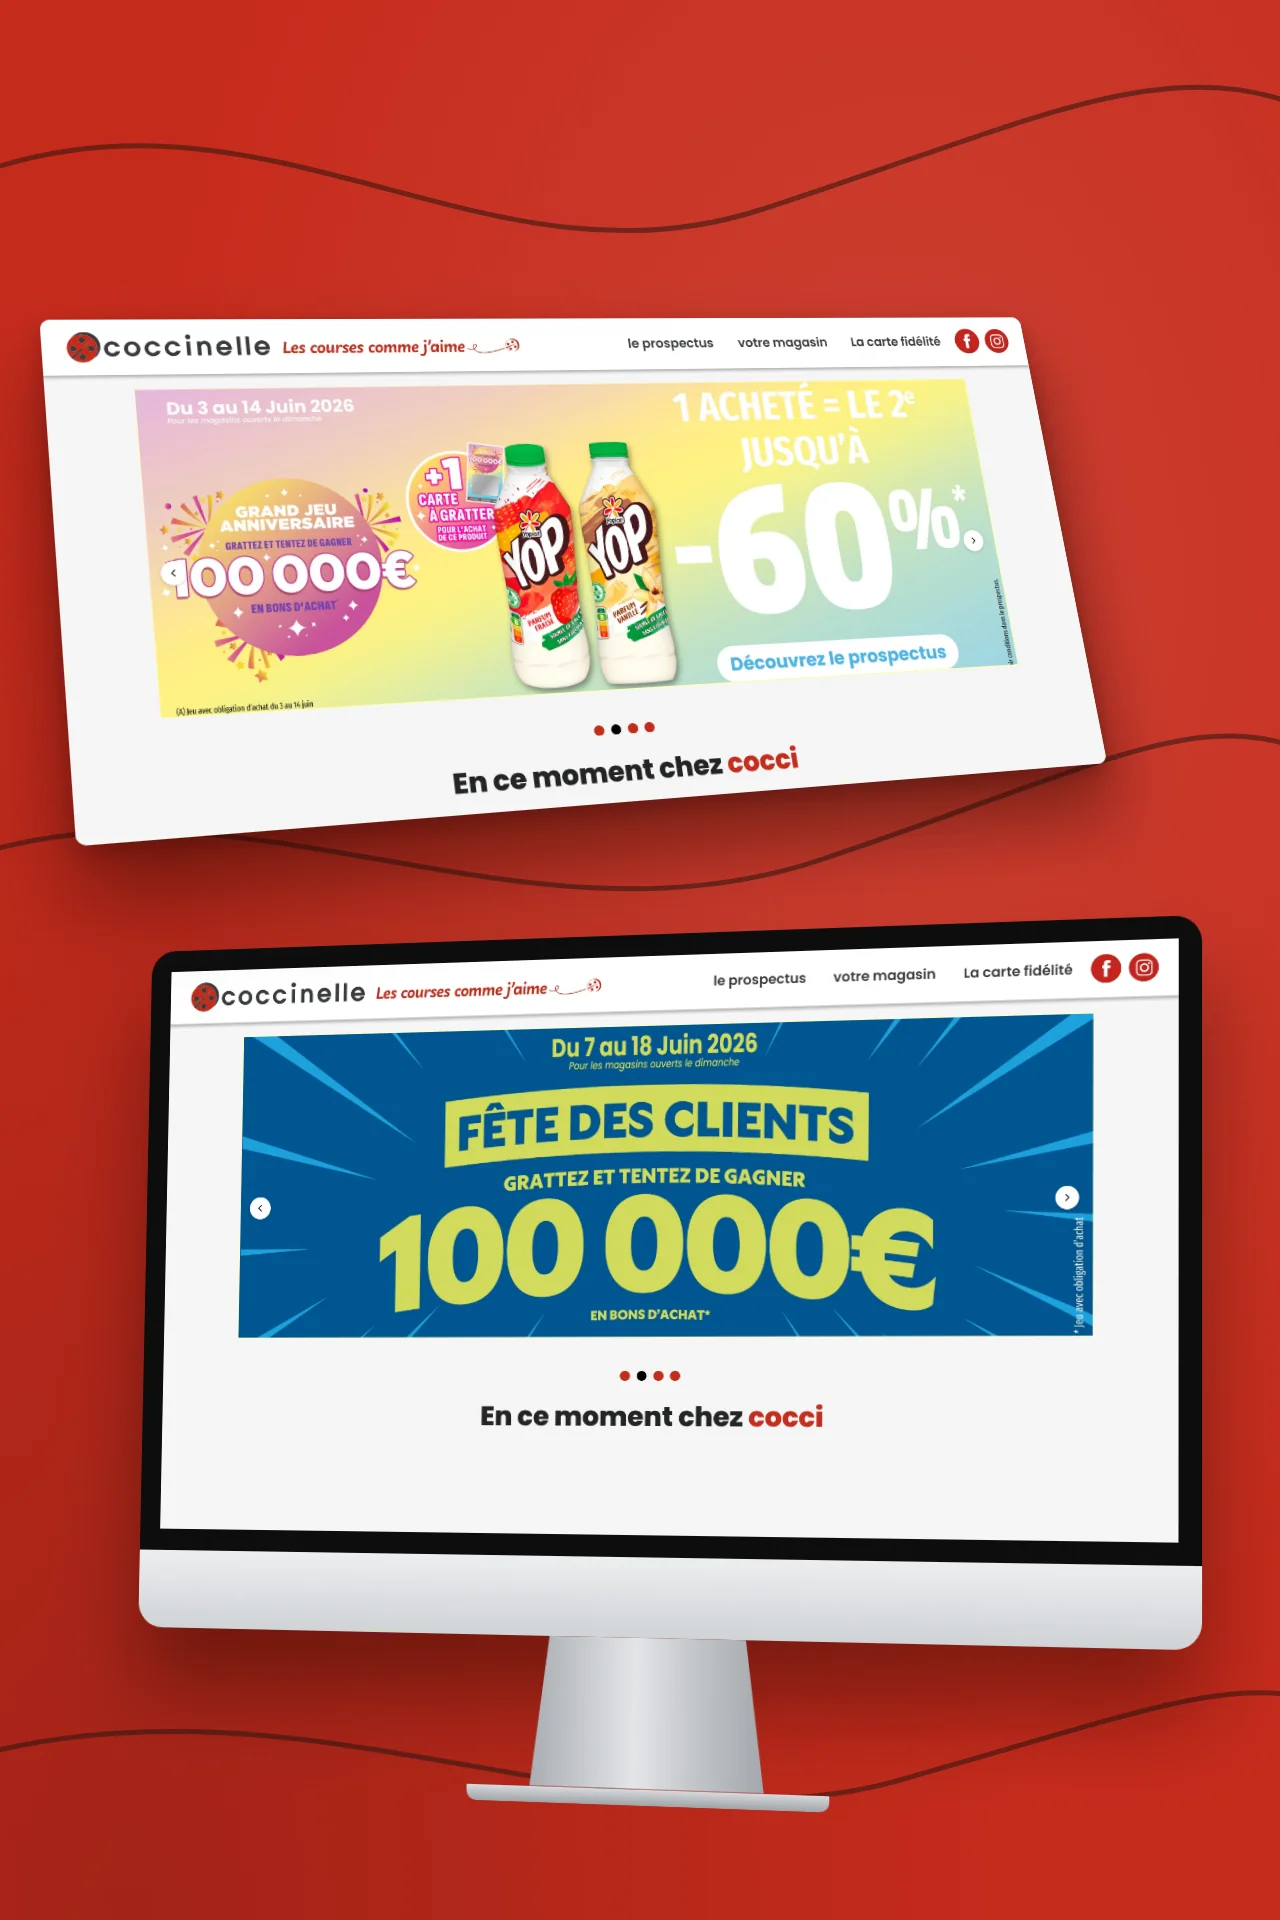
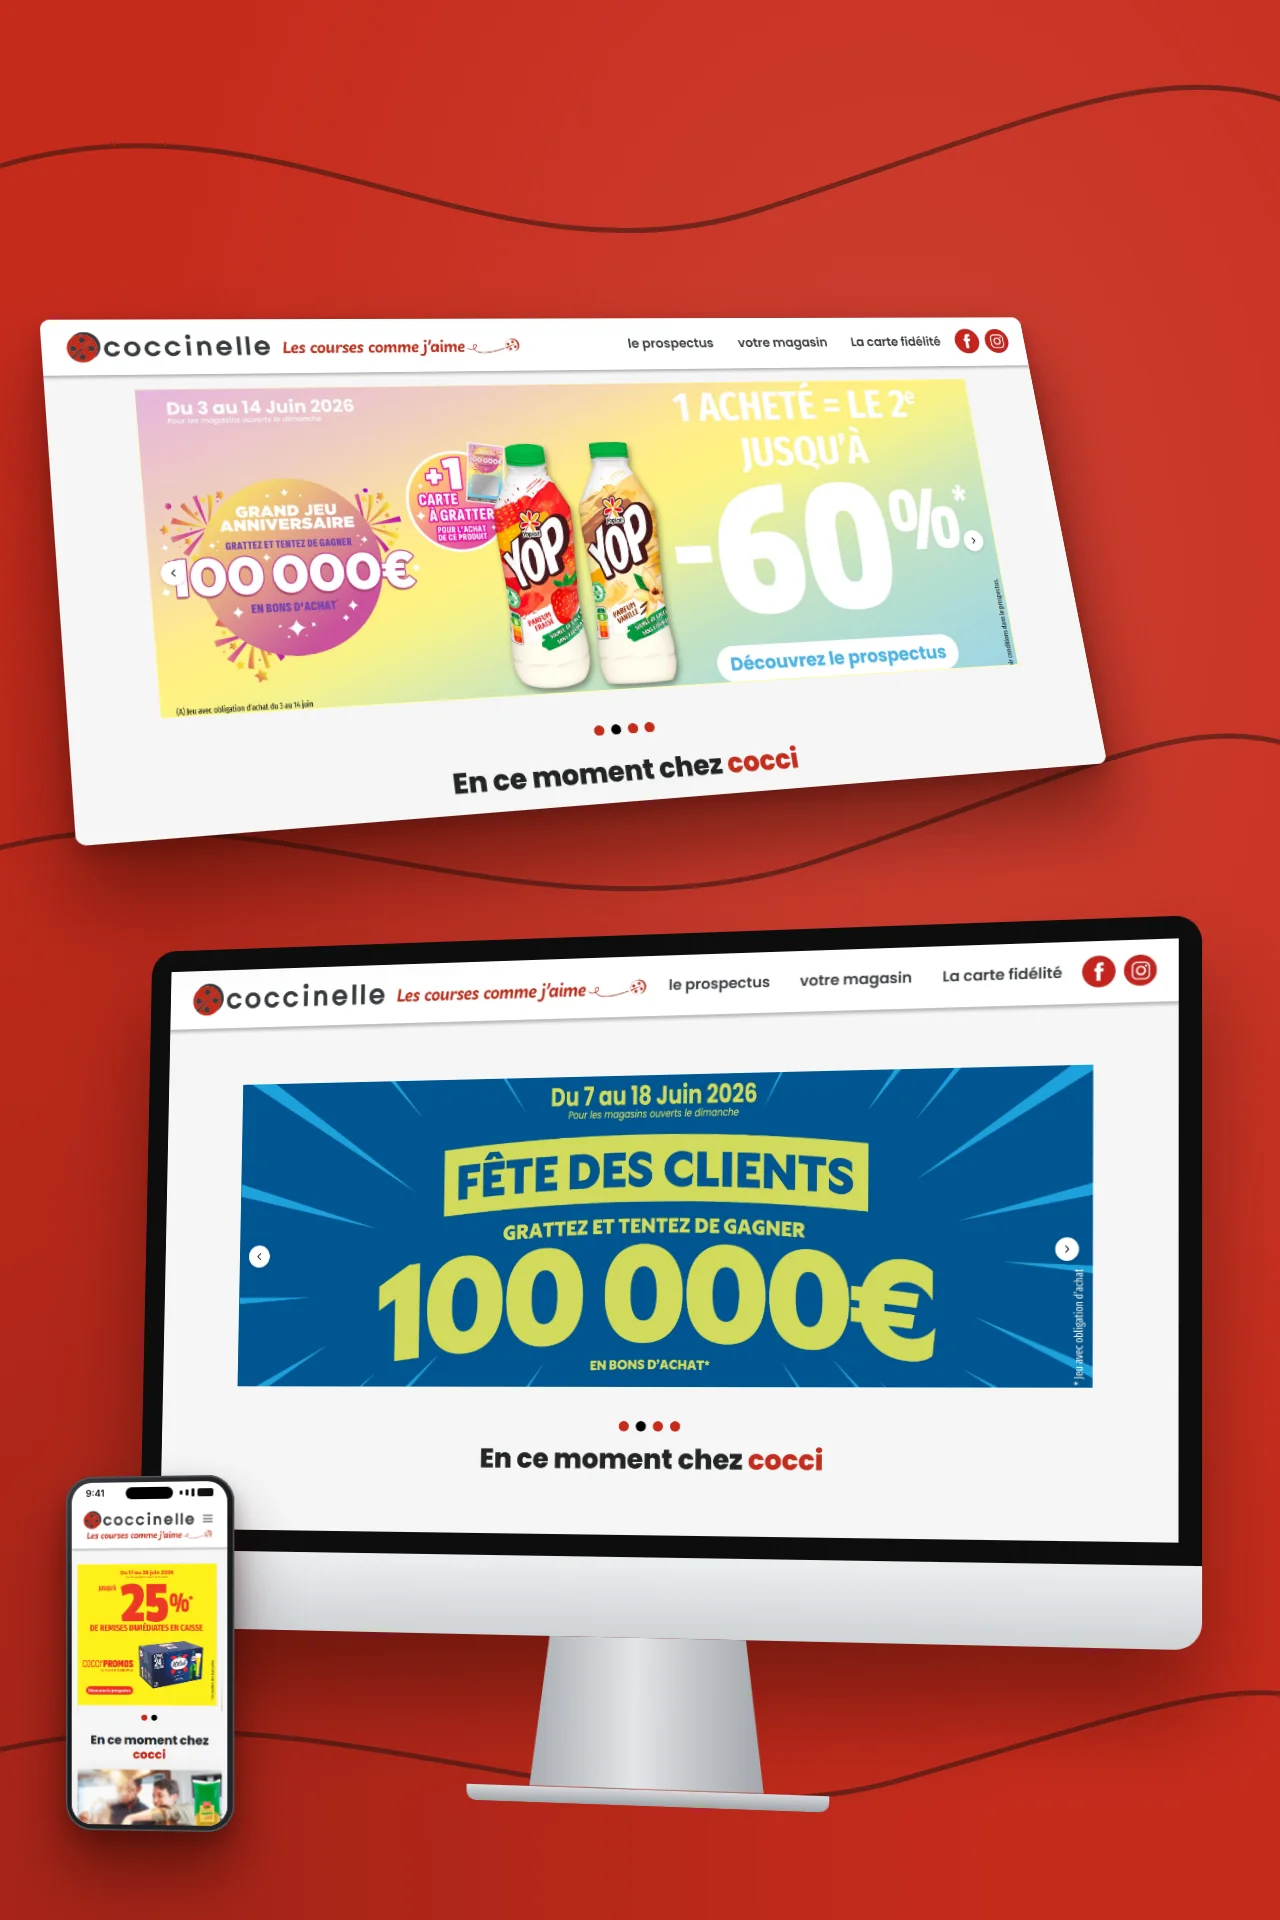
Coccinelle : iPhone avec le site mobile et menu de l'iMac agrandi
- Écran de l'iMac : en-tête du site un peu plus grand, bannière Fête
  des clients centrée verticalement
- Ajoute un iPhone à côté de l'iMac avec la version mobile du site et
  la bannière Cocci'Promos (1664)
- Ajoute la bannière mobile Cocci'Promos à la galerie du projet

Claude-Session: https://claude.ai/code/session_01JUh1WMRQpA7rmiwSH5Zf9N

Changed region(s): [[0.1562, 0.5, 0.9062, 0.7812], [0.0312, 0.75, 0.2188, 1.0]]

diff --git a/js/projets.js b/js/projets.js
@@ -48,8 +48,9 @@ window.PROJETS = [
       { image: 'assets/projets/coccinelle/pc-persil.webp', legende: 'Version ordinateur · Les bons plans Cocci' },
       { image: 'assets/projets/coccinelle/pc-ristorante.webp', legende: 'Version ordinateur · En mai, voisinez' },
       { image: 'assets/projets/coccinelle/pc-old-el-paso.webp', legende: 'Version ordinateur · En mai, voisinez' },
-      { image: 'assets/projets/coccinelle/mobile-ristorante.webp', legende: 'Version mobile' },
-      { image: 'assets/projets/coccinelle/mobile-old-el-paso.webp', legende: 'Version mobile' },
+      { image: 'assets/projets/coccinelle/mobile-1664.webp', legende: "Version mobile · Cocci'Promos, juin 2026" },
+      { image: 'assets/projets/coccinelle/mobile-ristorante.webp', legende: 'Version mobile · En mai, voisinez' },
+      { image: 'assets/projets/coccinelle/mobile-old-el-paso.webp', legende: 'Version mobile · En mai, voisinez' },
     ],
   },
   {
